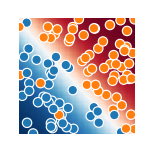
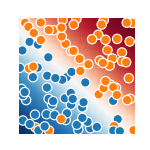
Fook

diff --git a/ui.py b/ui.py
@@ -275,7 +275,7 @@ class ui_manager:
 			self.model.next_step()
 			img = self.visual.visualize()
 			tkimg = ImageTk.PhotoImage(img)
-			#self.image_tab_visual.config(image = tkimg)
+			self.image_tab_visual.config(image = tkimg)
 
 	def stop_process(self):
 		if not(self.process is None):
